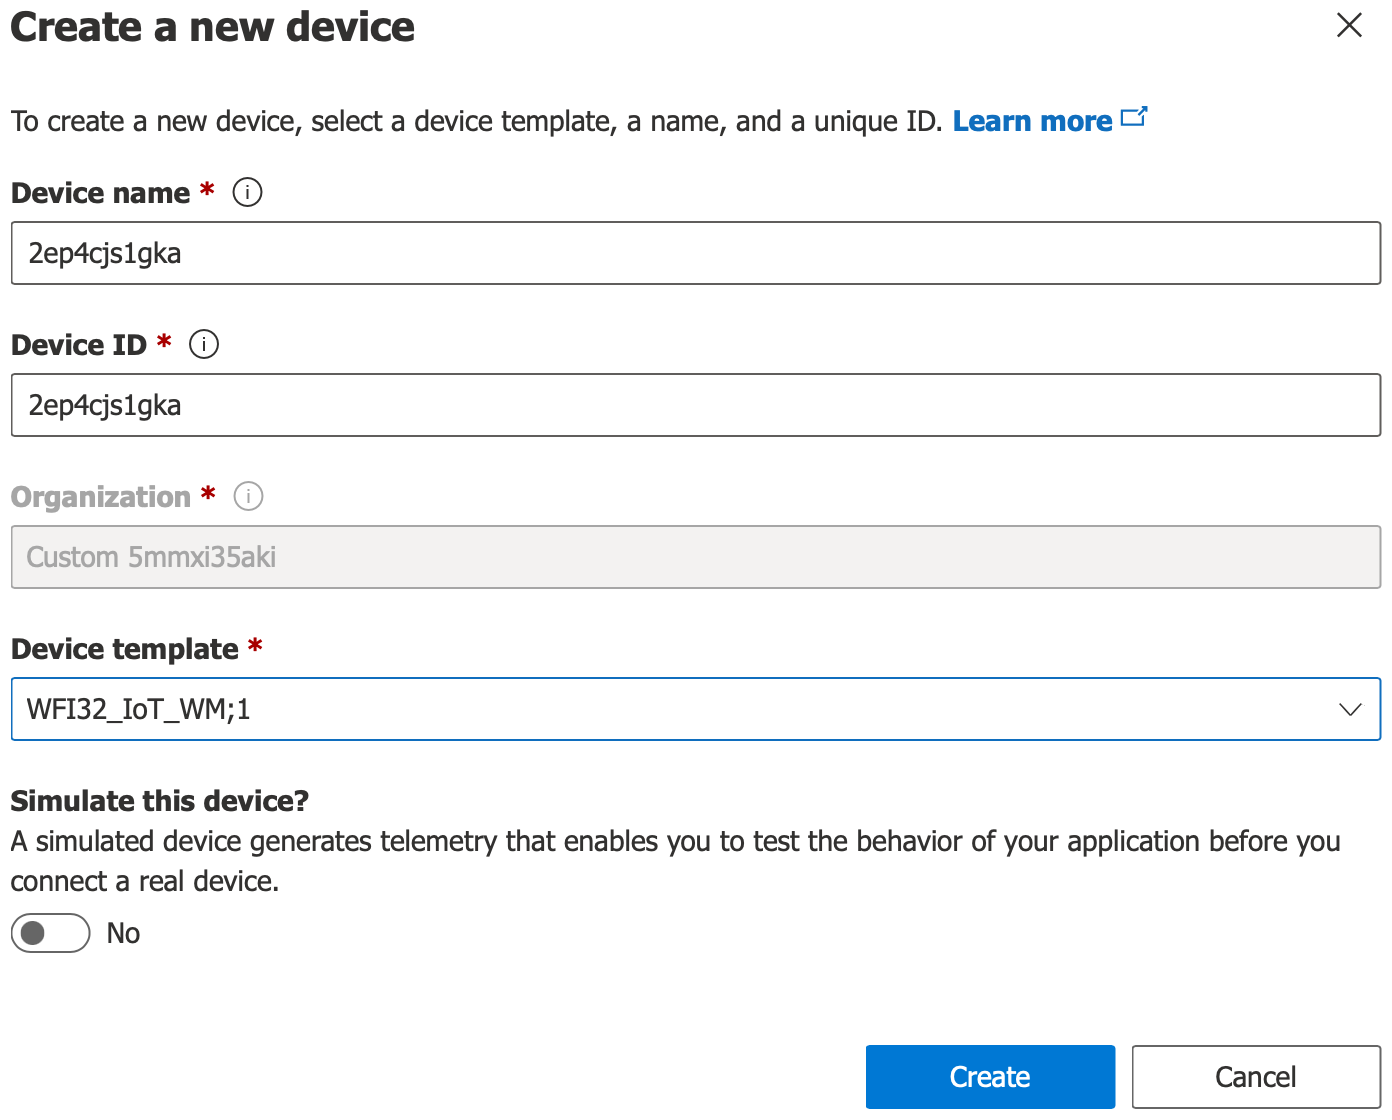
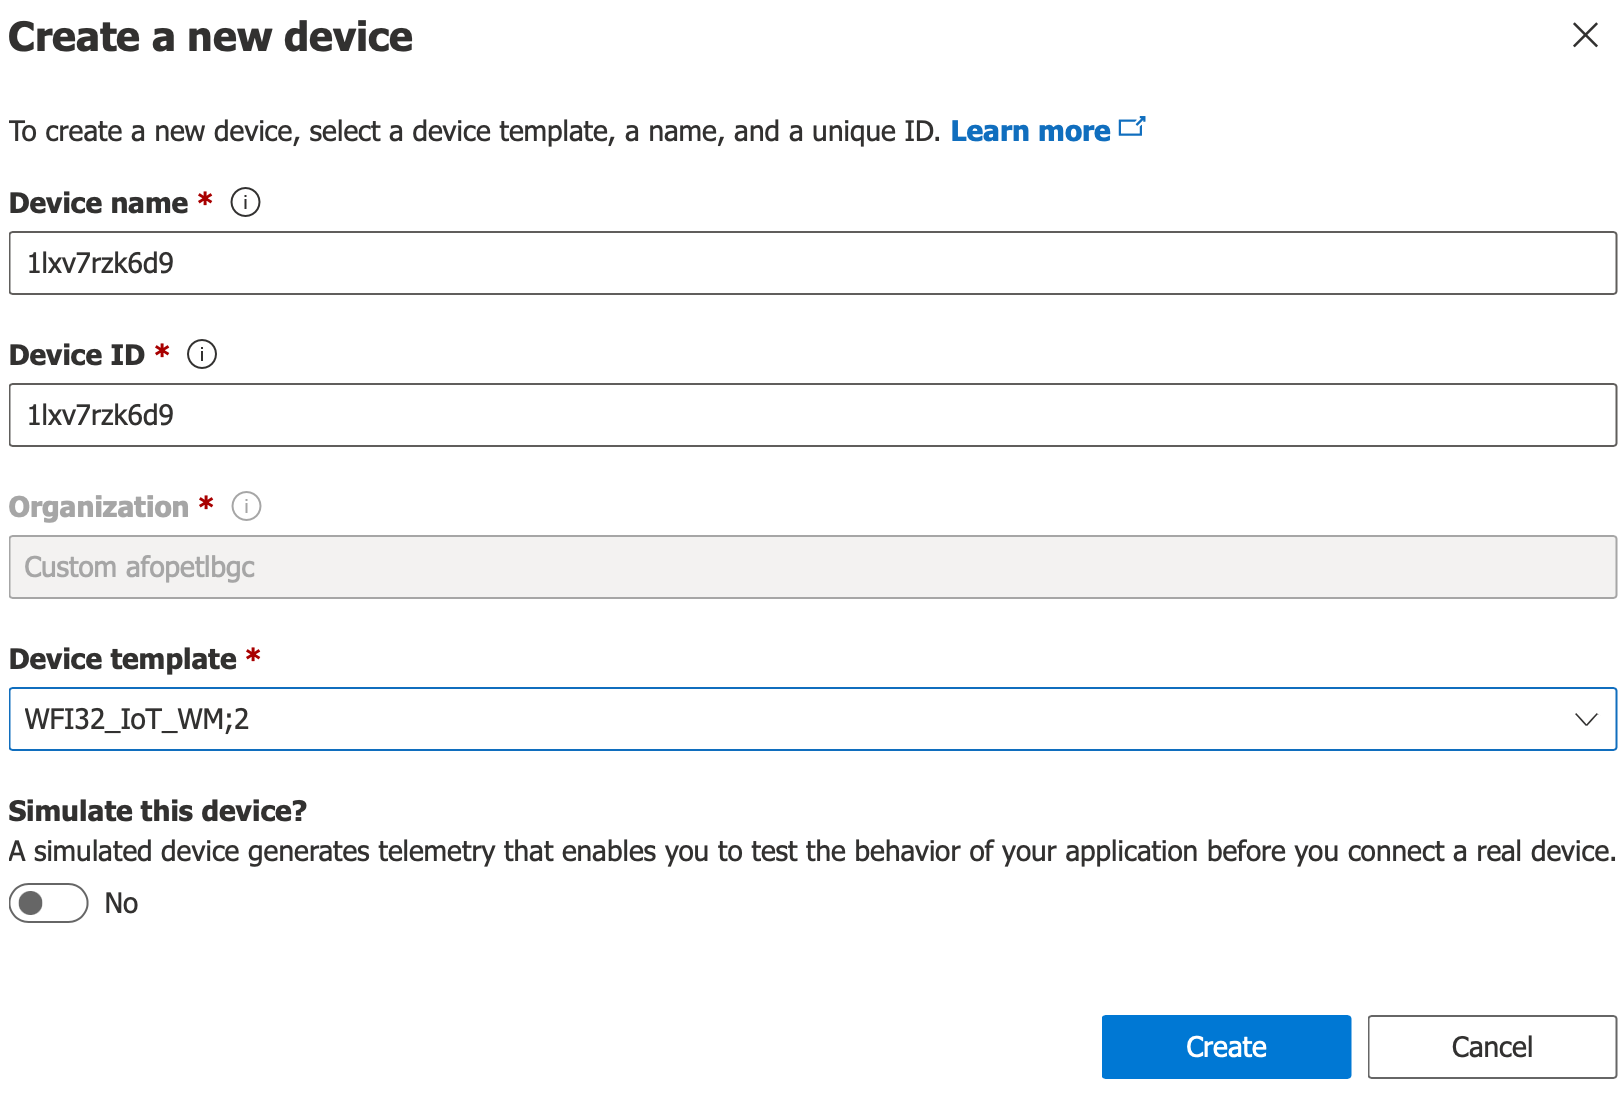
Update IOTC guidance

diff --git a/WFI32_IoT_Central_SAS.md b/WFI32_IoT_Central_SAS.md
@@ -160,7 +160,7 @@ IoT Central allows you to create an application dashboard to monitor the telemet
 
     <img src=".//media/image86.png">
 
-6. In the `Create a new device` window, it is suggested to accept the default device name and ID that are randomly-generated (but can be changed to more meaningful names if you like). Select `WFI32_IoT_WM;2` for the device template. Click on the `Create` button
+6. In the `Create a new device` window, it is suggested to accept the default device name and ID that are randomly-generated (but can be changed to more meaningful names if you like). Select `WFI32_IoT_WM;x` for the device template. Click on the `Create` button
 
     <img src=".//media/image87.png" style="width:5.in;height:3.68982in" alt="A screenshot of a cell phone Description automatically generated" />
 
@@ -242,7 +242,7 @@ IoT Central allows you to create an application dashboard to monitor the telemet
     <img src=".//media/image102a.png" style="width:5.in;height:2.18982in" alt="A screenshot of a cell phone Description automatically generated" />
     <img src=".//media/image102b.png" style="width:5.in;height:2.18982in" alt="A screenshot of a cell phone Description automatically generated" />
 
-5. Select `Device Group` > `WFI32-IoT WM;2 - All devices` and then check the box for your specific device name for `Devices`
+5. Select `Device Group` > `WFI32-IoT WM;x - All devices` and then check the box for your specific device name for `Devices`
 
     <img src=".//media/image103a.png" style="width:5.in;height:2.08982in" alt="A screenshot of a cell phone Description automatically generated" />
 
@@ -283,7 +283,7 @@ If you have one or both of the optional MikroElektronika "Ultra-Low Press" and/o
 4. For each of the tiles used to display device data (and does not currently show any data), configure each tile by adding your device to the tile by executing the following steps:
 
     - click `Edit` icon
-    - select `WFI32_IoT_WM` for `Device group`
+    - select `WFI32_IoT_WM;x` for `Device group`
     - click `Select All` for `Devices`
     - click the `Update` button
 
